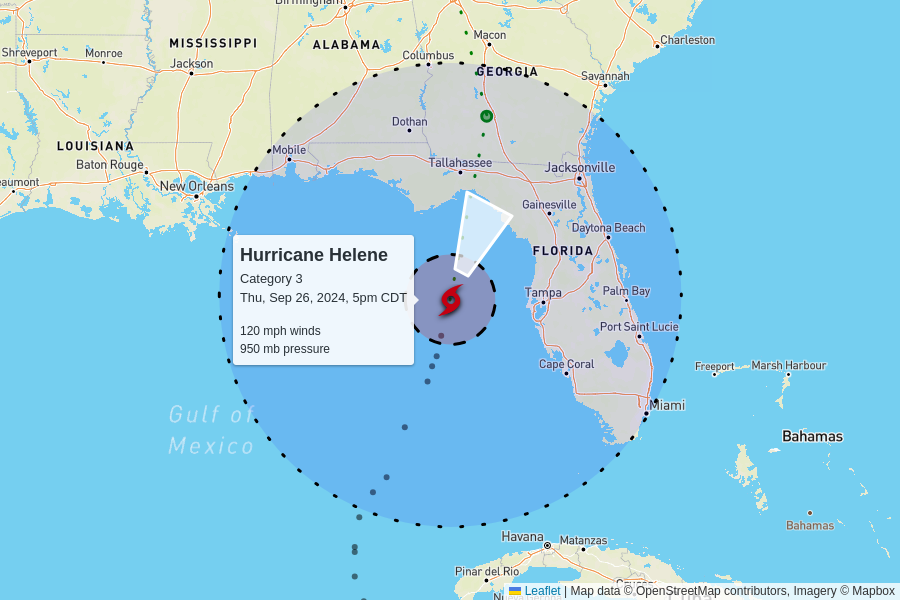
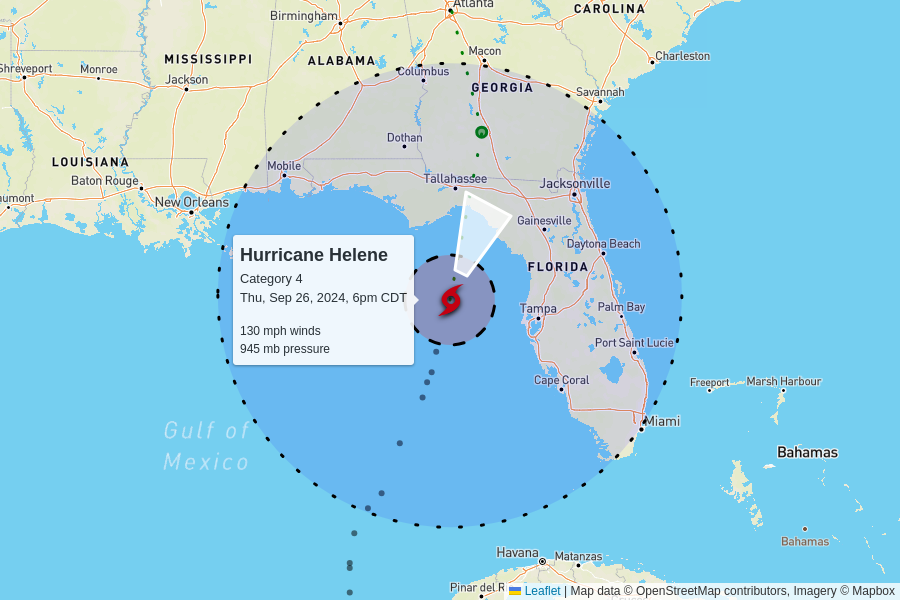
automatic update

diff --git a/docs/index.html b/docs/index.html
@@ -101,10 +101,10 @@
 
     <table>
       <tr>
-        <td colspan="6" class="storm category-3" >
+        <td colspan="6" class="storm category-4" >
           <h2>
-            Hurricane Helene - Category 3
-            <p class="updated">last updated <span data-time>2024-09-26T22:00:00.000Z</span></p>
+            Hurricane Helene - Category 4
+            <p class="updated">last updated <span data-time>2024-09-26T23:00:00.000Z</span></p>
           </h2>
         </td>
       </tr>
@@ -119,10 +119,10 @@
       </tr>
       <tr>
         <td class="spacer"></td>
-        <td>120 mph<br>-5 mph since last update</td>
-        <td>950 mb<br>-1 mb since last update</td>
+        <td>130 mph<br>0 mph since last update</td>
+        <td>945 mb<br>-2 mb since last update</td>
         <td>
-          21 mph to the north-northeast
+          23 mph to the north-northeast
           <br/>
           <span style="display: inline-block; font-size: 1.5em; transform: rotate(25deg);">↑</span>
         </td>
